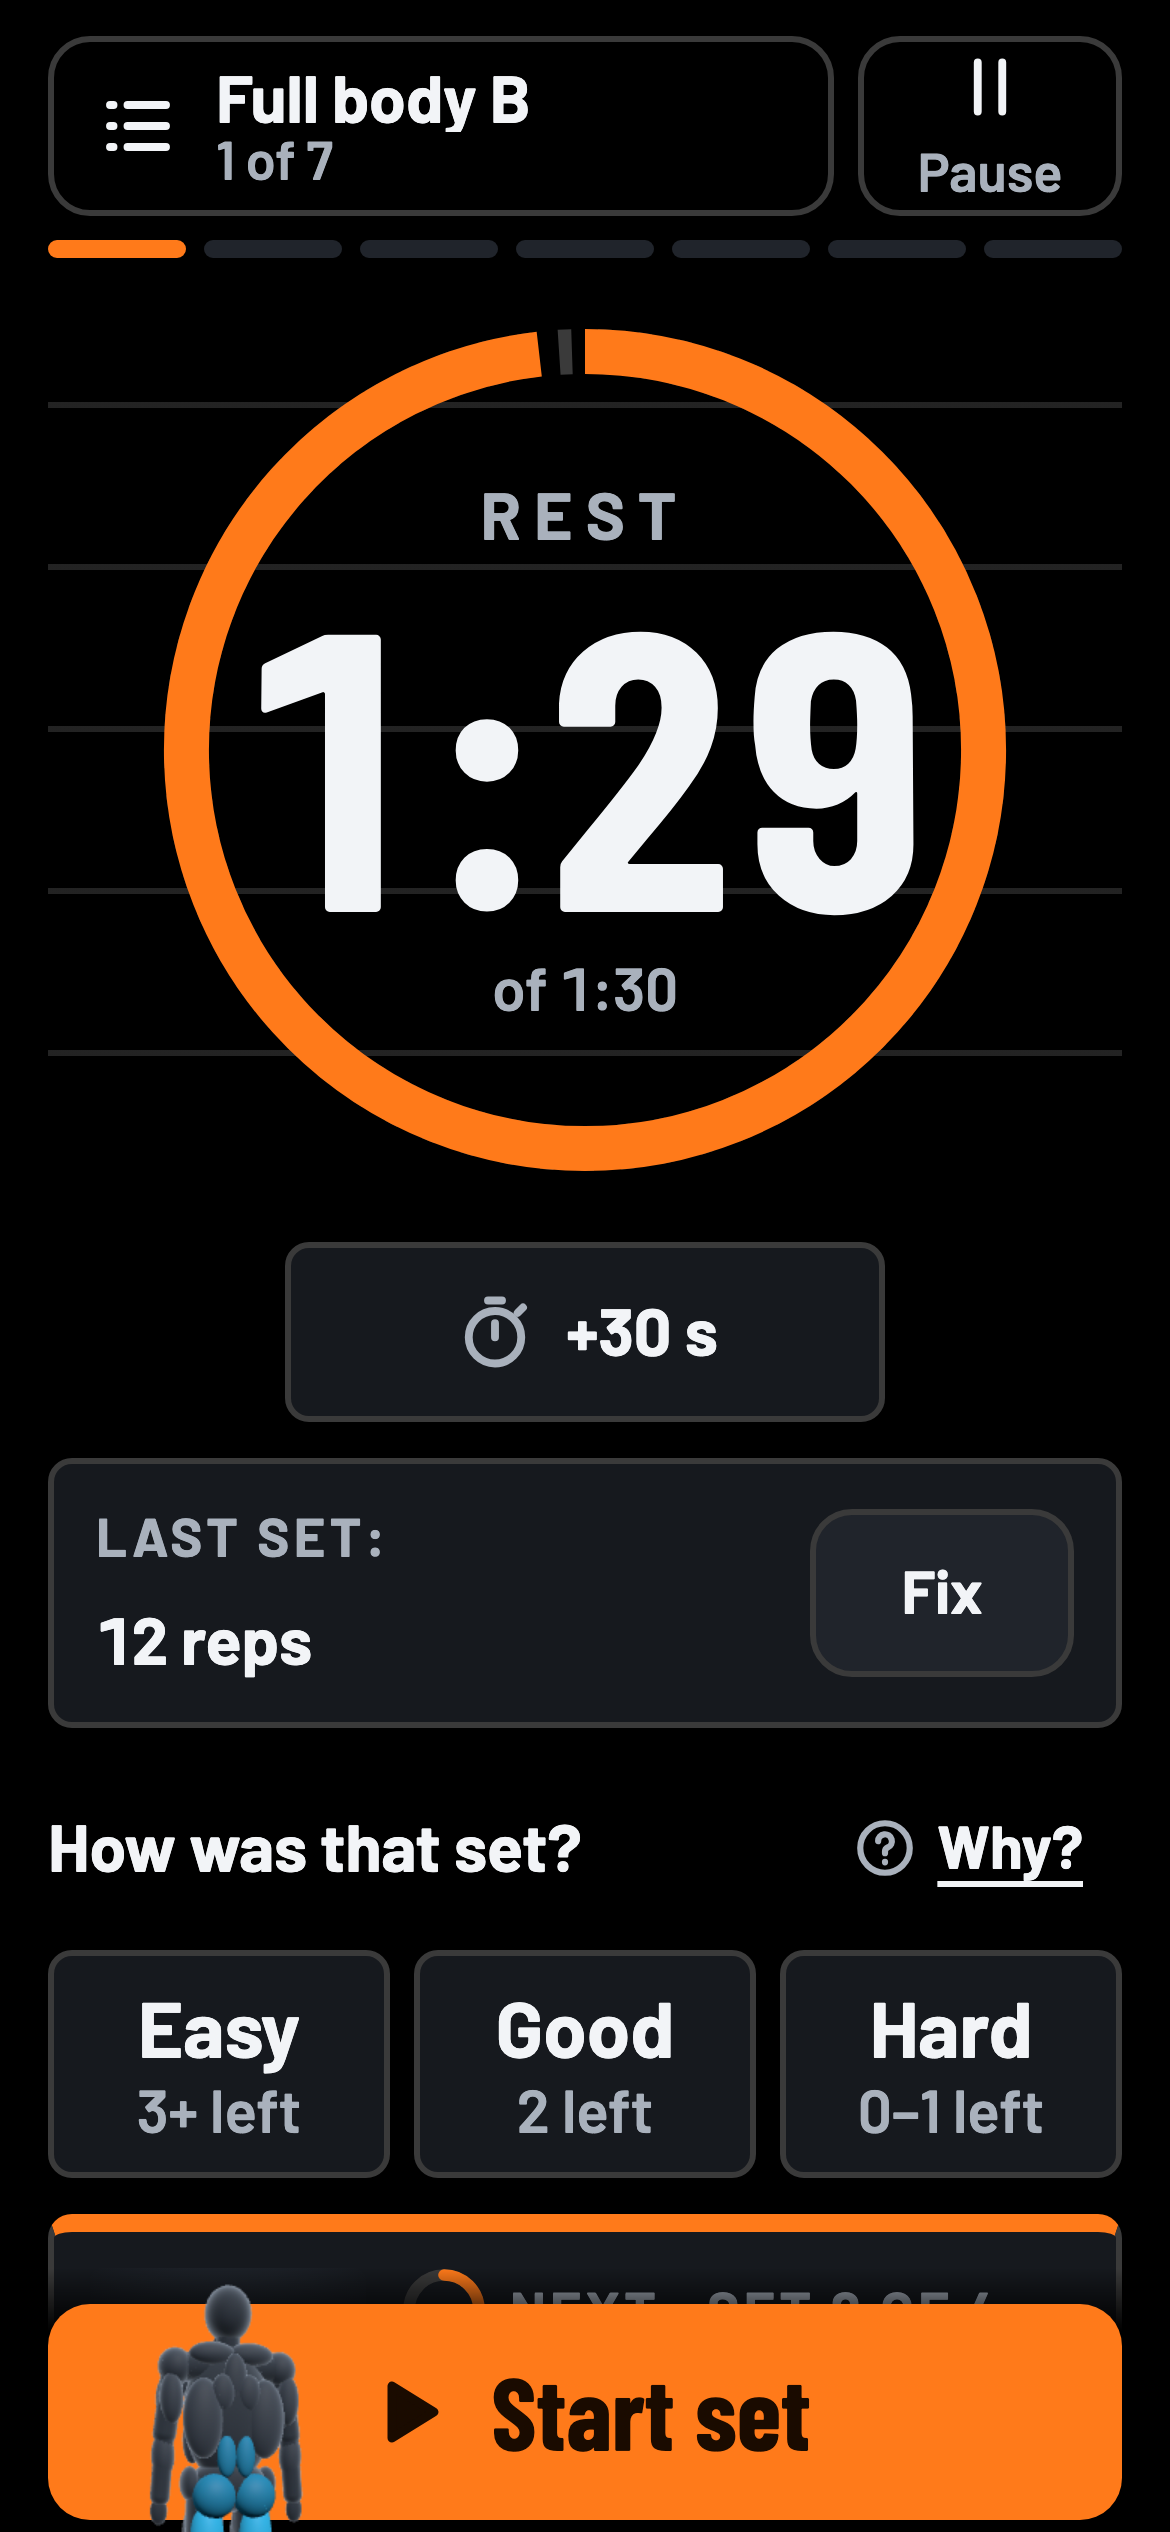
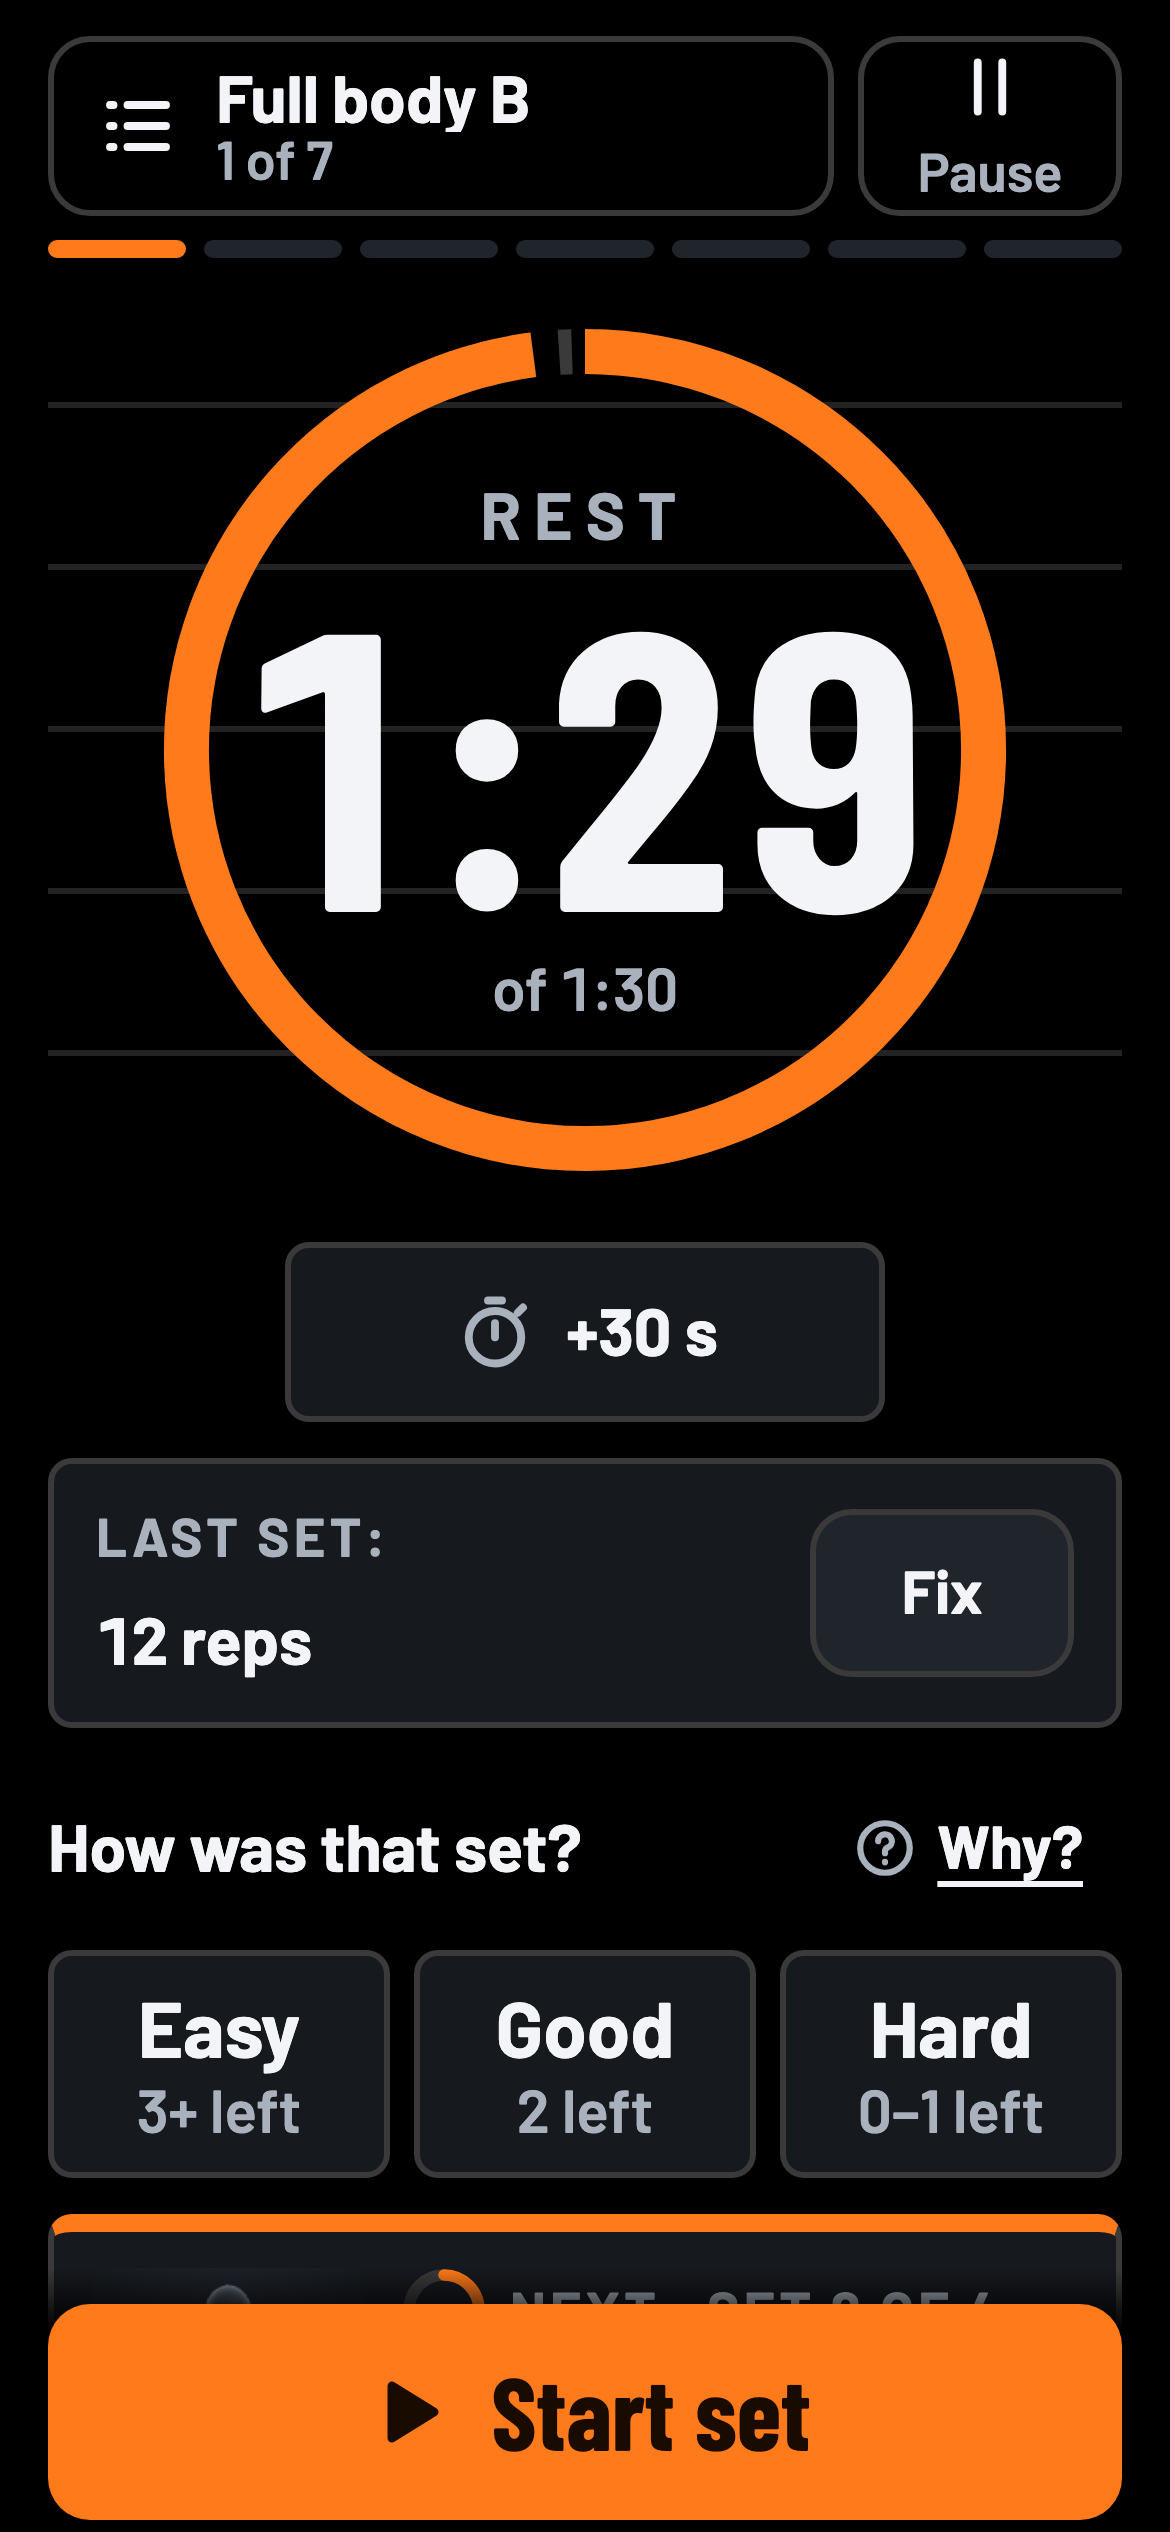
Rest: the Start set button is always above the next-set 3D figure (dock z-index, figure isolated); full-width tap e2e; store shots retaken

Changed region(s): [[0.1231, 0.9048, 0.2769, 1.0], [0.4308, 0.1248, 0.4615, 0.156]]

diff --git a/e2e/rest-dock.spec.ts b/e2e/rest-dock.spec.ts
@@ -1,0 +1,158 @@
+import { expect, test, type Page } from './fixtures';
+
+/**
+ * Rest screen, sticky "Start set" dock vs. the "Next" card's 3D body (found by the M13 store
+ * screenshot run): with the real WebGL viewer in the card, every point across the Start set
+ * button must hit the button, never the canvas, at 390×844. Mounted from the real modules with
+ * made-up data, the way e2e/m13-polish.spec.ts does it.
+ */
+
+declare global {
+  interface Window {
+    __spoken: string[];
+    __started: number;
+  }
+}
+
+async function mountRest(page: Page): Promise<void> {
+  await page.addInitScript(() => {
+    window.__spoken = [];
+    window.__started = 0;
+    Object.defineProperty(window, 'speechSynthesis', {
+      configurable: true,
+      value: {
+        speaking: false,
+        paused: false,
+        speak: (u: { text: string }) => window.__spoken.push(u.text),
+        cancel: () => undefined,
+        resume: () => undefined,
+        getVoices: () => [],
+        addEventListener: () => undefined,
+      },
+    });
+    Object.defineProperty(navigator, 'wakeLock', {
+      configurable: true,
+      value: { request: async () => ({ release: async () => undefined }) },
+    });
+  });
+  await page.goto('/');
+  await page.evaluate(async () => {
+    const rest = await import('/src/ui/screens/rest.ts' as string);
+    const bodyMap = await import('/src/ui/bodyMap.ts' as string);
+    const catalog = await import('/src/data/catalog.ts' as string);
+    const id = 'One-Arm_Dumbbell_Row';
+    const ex = catalog.exerciseById(id);
+    const slot = document.createElement('div');
+    slot.className = 'muscle-slot rest';
+    slot.dataset['muscleSlot'] = id;
+    slot.dataset['interactive'] = 'false';
+    slot.innerHTML = bodyMap.bodyMapSvg({
+      view: bodyMap.pickView(ex.primaryMuscles),
+      primary: ex.primaryMuscles,
+      secondary: ex.secondaryMuscles,
+    });
+    const btn = document.createElement('button');
+    btn.className = 'muscle-btn';
+    btn.setAttribute('aria-label', 'Show target muscles in 3D');
+    btn.append(slot);
+    const view = rest.restScreen(
+      {
+        dayName: 'Pull A',
+        exIndex: 1,
+        exTotal: 5,
+        remainingMs: 74_000,
+        targetMs: 90_000,
+        exerciseId: id,
+        name: 'One-Arm Dumbbell Row',
+        setIndex: 2,
+        sets: 4,
+        reps: 10,
+        weightText: '22.5',
+        unit: 'kg',
+        cue: 'Elbow to hip.',
+        figure: btn,
+        hasNotes: true,
+        note: 'Brace on the bench, flat back.',
+        today: '10 × 22.5 kg',
+        last: '10, 10, 9 × 22.5 kg',
+        // As in the store run: the effort row pushes the card down under the dock at scrollY 0.
+        effort: null,
+        fixEl: Object.assign(document.createElement('div'), {
+          className: 'lsc',
+          style: 'min-height: 90px',
+        }),
+      },
+      {
+        onList: () => undefined,
+        onPause: () => undefined,
+        onExtend: () => undefined,
+        onNotes: () => undefined,
+        onStartSet: () => {
+          window.__started += 1;
+        },
+        onEffort: () => undefined,
+      },
+    );
+    document.body.replaceChildren(view.el);
+  });
+}
+
+/** What app.ts's placeBody3d does: the real 3D body moved into the slot. */
+const place3d = (page: Page) =>
+  page.evaluate(async () => {
+    const viewer = await import('/src/ui/body3d/viewer.ts' as string);
+    if (!viewer.webglAvailable()) return false;
+    const slot = document.querySelector<HTMLElement>('[data-muscle-slot]');
+    if (!slot) return false;
+    const body = viewer.createBody3D({ reducedMotion: false });
+    slot.classList.add('has-3d');
+    slot.append(body.el);
+    body.setInteractive(false);
+    body.setMuscles(['middle back', 'lats'], ['biceps']);
+    return true;
+  });
+
+/** Tags of what elementFromPoint hits at 5%…95% across the button, on its middle row. */
+const hitsAcross = (page: Page) =>
+  page.evaluate(() => {
+    const btn = document.querySelector<HTMLElement>('.sticky-bottom .cta-btn');
+    if (!btn) return ['no button'];
+    const r = btn.getBoundingClientRect();
+    const out: string[] = [];
+    for (const f of [0.05, 0.1, 0.2, 0.35, 0.5, 0.65, 0.8, 0.9, 0.95]) {
+      for (const fy of [0.2, 0.5, 0.8]) {
+        const hit = document.elementFromPoint(r.left + r.width * f, r.top + r.height * fy);
+        out.push(hit && btn.contains(hit) ? 'button' : (hit?.tagName.toLowerCase() ?? 'none'));
+      }
+    }
+    return out;
+  });
+
+test('Rest: the sticky Start set button is on top of the 3D card and tappable across its width', async ({
+  page,
+}) => {
+  await mountRest(page);
+  test.skip(!(await place3d(page)), 'no WebGL in this browser');
+  await expect(page.locator('.rest-card-fig')).toHaveAttribute('data-3d', 'shown');
+  expect(await page.evaluate(() => document.documentElement.scrollWidth)).toBe(390);
+
+  const btn = page.locator('.sticky-bottom .cta-btn');
+  await expect(btn).toBeVisible();
+  expect((await btn.boundingBox())?.height ?? 0).toBeGreaterThanOrEqual(56);
+
+  // At every scroll position the card can pass under the dock, the button wins every point.
+  const max = await page.evaluate(() => document.documentElement.scrollHeight - window.innerHeight);
+  expect(max).toBeGreaterThan(0); // the card does scroll under the dock
+  for (const y of [0, Math.round(max / 3), Math.round((2 * max) / 3), max]) {
+    await page.evaluate((top) => window.scrollTo(0, top), y);
+    expect(await hitsAcross(page), `scrollY ${y}`).toEqual(Array(27).fill('button'));
+  }
+
+  // A real tap on the left edge starts the set.
+  await page.evaluate(() => window.scrollTo(0, 0));
+  const box = await btn.boundingBox();
+  expect(box).not.toBeNull();
+  if (!box) return;
+  await page.mouse.click(box.x + box.width * 0.1, box.y + box.height / 2);
+  expect(await page.evaluate(() => window.__started)).toBe(1);
+});

diff --git a/src/ui/screens/rest.test.ts b/src/ui/screens/rest.test.ts
@@ -589,4 +589,13 @@ describe('Rest "Next" card: 2D at once, 3D fades in over it (M13)', () => {
     // Reduced motion: the one global rule in styles.css (the tokens are 0ms), no second block here.
     expect(css).not.toMatch(/@media \(prefers-reduced-motion/);
   });
+
+  it('rest.css: the card figure keeps its layers to itself; the sticky Start set dock is on top', () => {
+    const css = readFileSync(join(__dirname, 'rest.css'), 'utf8');
+    // The slot's z-index (and the 3D canvas in it) stays inside the figure's own stacking context…
+    expect(css).toMatch(/\.rest-card-fig \{[^}]*isolation: isolate;/);
+    // …and the dock paints above every in-flow layer of the screen.
+    expect(css).toMatch(/\.rest \.sticky-bottom \{[^}]*z-index: \d+;/);
+    expect(css).toMatch(/\.rest \.sticky-bottom \{[^}]*position: sticky;/);
+  });
 });

diff --git a/src/ui/screens/rest.css b/src/ui/screens/rest.css
@@ -6,6 +6,9 @@
 
 .rest-card-fig {
   position: relative;
+  /* Its own stacking context: the slot's z-index (and the 3D canvas in it) stays inside the
+     figure, so nothing in the card can paint over the sticky Start set dock below. */
+  isolation: isolate;
 }
 
 .rest-card-fig .rest-fig-2d {
@@ -44,4 +47,12 @@
 
 .rest-card-fig[data-3d='shown'] .rest-fig-2d {
   opacity: 0;
+}
+
+/* The sticky Start set dock paints above everything that scrolls under it (the Next card's 3D
+   canvas included), so the whole button is tappable at every scroll position
+   (e2e/rest-dock.spec.ts). */
+.rest .sticky-bottom {
+  position: sticky;
+  z-index: 2;
 }
